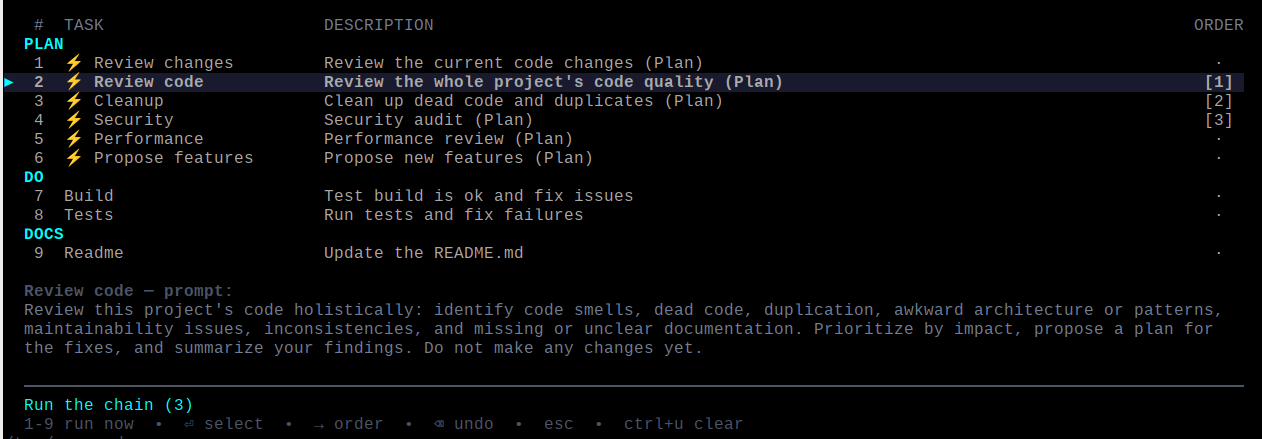
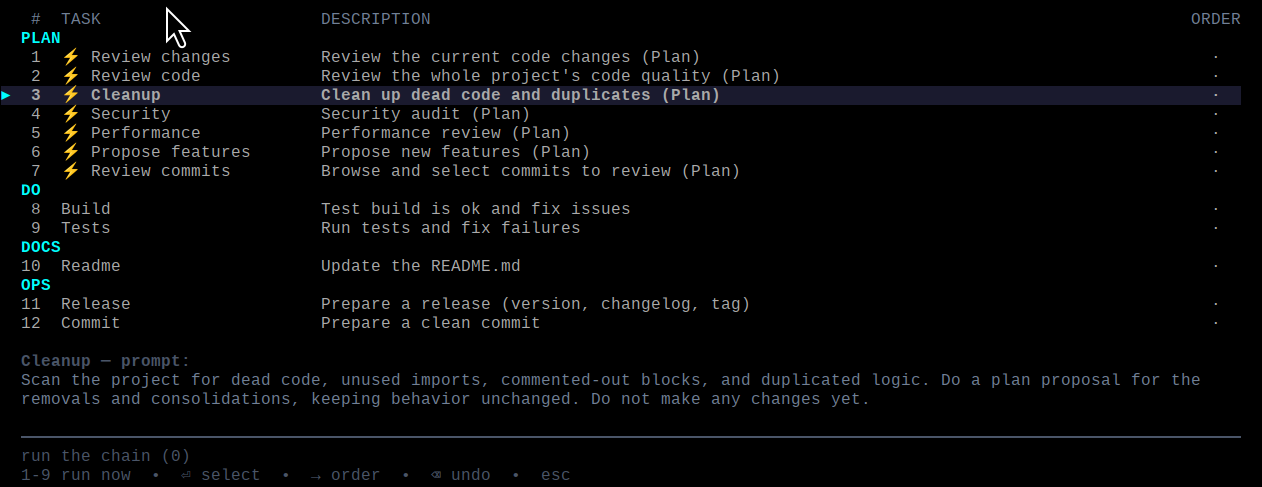
update info

diff --git a/README.md b/README.md
@@ -8,30 +8,6 @@ type to filter, scroll or click, or navigate with arrows + Enter → the task's 
 **filled into the input editor**. Review it, tweak it, press Enter to run. Tasks marked `⚡`
 (the `Plan` category by default) auto-run on selection instead — see `autoRun` below.
 
-```text
-  do-always — pick a task
-
-   #  TASK                      DESCRIPTION                                                    ORDER
-  PLAN
-   1  ⚡ Review changes         Review the current code changes (Plan)                           ·  
-   2  ⚡ Review code            Review the whole project's code quality (Plan)                  [1] 
-   3  ⚡ Cleanup                Clean up dead code and duplicates (Plan)                        [2] 
-   4  ⚡ Security               Security audit (Plan)                                            ·  
-   5  ⚡ Performance            Performance review (Plan)                                      ►[3] 
-   6  ⚡ Propose features       Propose new features (Plan)                                      ·  
-   7  ⚡ Review commits        Browse and select commits to review (Plan)                       ·  
-  DO
-   8  Build                     Test build is ok and fix issues                                  ·  
-   8  Tests                     Run tests and fix failures                                       ·  
-  DOCS
-   9  Readme                    Update the README.md                                             ·  
-
-  ──────────────────────────────────────────────────────────────────────────────────────────────────
-  Run the chain (3)
-  ← tasks  •  ⏎ remove  •  esc  •  ctrl+u clear
-
-  1-9 pick by number  •  type to filter  •  ↑↓ navigate  •  enter select  •  esc cancel  •  ⚡ auto-runs
-```
 
 ![do-always — the numbered task selector](pi.image.png)
 
